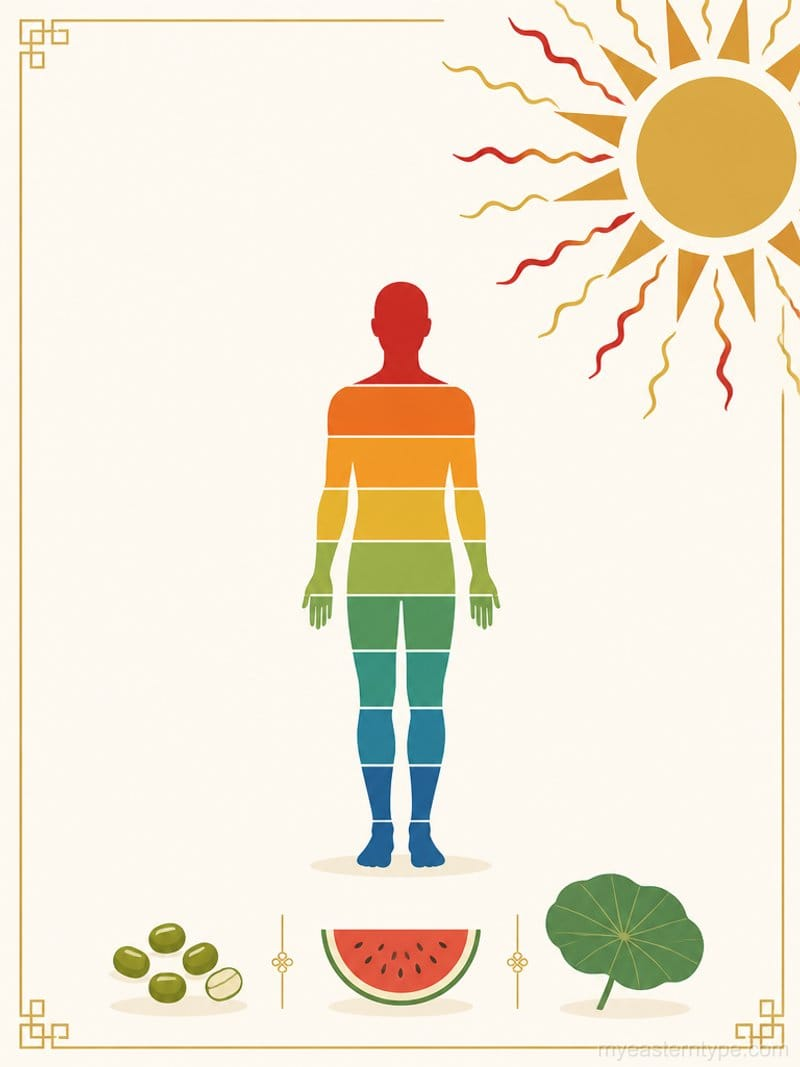
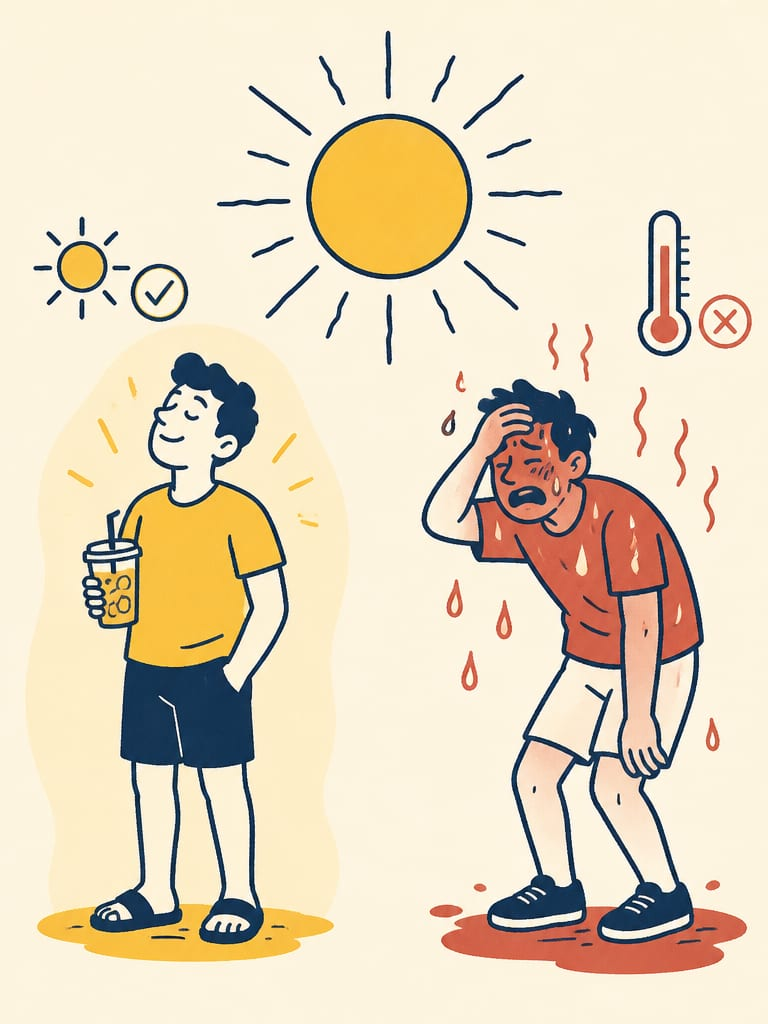
feat: add 2 journal articles (back-to-school + coffee) with 8 new images, replace 4 cover images with flat illustration style (journal 3->5, build 351->353)

diff --git a/src/lib/journal-data.ts b/src/lib/journal-data.ts
@@ -593,5 +593,273 @@ export const JOURNAL_ARTICLES: JournalArticle[] = [
       },
     ],
   },
+  {
+    slug: "back-to-school-by-body-type",
+    title: "Back-to-School by Body Type: Why Some Kids Bounce In While Others Drag",
+    description: "Back to school hits every child differently. A Chinese medicine guide to body type and how children respond to September, with school readiness tips for each constitution.",
+    date: "2026-07-25",
+    category: "event",
+    tags: ["back-to-school", "children", "body-type", "chinese-medicine", "kids"],
+    excerpt: "Some children walk into their classroom on day one like they belong there. Others come home exhausted, teary, or with a stomach ache. Their body type may explain why.",
+    thumbnail: "/images/journal/back-to-school-cover.jpg",
+    sections: [
+      {
+        heading: "Why September Hits Different Kids Differently",
+        body: "In Chinese medicine, a child's reaction to going back to school may be closely tied to their body type, what TCM calls their constitution. Qi Deficient children often come home pale and spent, barely able to hold a conversation about their day. Qi Stagnant children may complain of tummy aches or headaches each school morning, with no clear physical cause. Damp Heat types might break out in rashes or spots during the first stressful week. A child's constitution is not a diagnosis. It is a pattern of strengths and weak points that shapes how their body responds to change, pressure, and new routines. Knowing your child's type may help you prepare for the parts of September that will cost them the most energy.\n\nEvery September, teachers see the same pattern repeat. Some children walk into their new classroom like they belong there, make a friend within the first recess, and come home buzzing with stories. Others drag through the school gate, cling to a parent's hand, and return home withdrawn, tearful, or complaining of a stomach ache that no one can find a reason for. Same school, same teacher, same curriculum. Different bodies.\n\nChinese medicine does not frame this as good behavior versus bad behavior. It frames it as a question of constitution. A child who runs low on Qi will struggle with the sustained output that a full school day demands. A child whose Liver Qi tends to tighten under stress will show it through the gut, not through words. The nine body types each carry their own weak point, and September is exactly the kind of pressure test that exposes it.",
+      },
+      {
+        heading: "The Nine Body Types at School Drop-off",
+        type: "table",
+        table: {
+          headers: ["Body Type", "First Week Vibe", "What Drains Them", "What May Help"],
+          rows: [
+            ["Qi Deficient", "Pale and spent by pickup", "Sustained mental and social output", "Warm cooked breakfast, early bedtime"],
+            ["Qi Stagnant", "Tummy aches and reluctance at the gate", "Emotional pressure and new routines", "Movement before school, time to talk"],
+            ["Damp Heat", "Breakouts and irritability in week one", "Heavy lunches and sticky heat", "Light cooling foods, less sugar"],
+            ["Yin Deficient", "Dry throat, restless sleep, distracted", "Hot classroom and poor hydration", "Hydrating foods, pear and lily bulb"],
+            ["Yang Deficient", "Cold hands, sluggish in the morning", "Early chill and cold drinks", "Warm food, layer up, ginger tea"],
+            ["Phlegm Damp", "Foggy, heavy, hard to focus", "Dairy and sweets after school", "Light meals, movement, less damp food"],
+            ["Blood Stasis", "Clumsy, dark circles, growing pains", "Sitting still for long stretches", "Stretching, movement breaks, warm feet"],
+            ["Sensitive", "Sneezing, itchy skin, reactive", "Dust, chalk, new environment", "Clean uniform, gentle soap, airy room"],
+            ["Balanced", "Settles in within a few days", "Mostly fine, watch sleep debt", "Normal routine, light on screen time"],
+          ],
+        },
+      },
+      {
+        heading: "Nine Body Types at a Glance",
+        type: "image",
+        imageAlt: "Nine body types and their first week of school behavior at a glance",
+        imageDescription: "An infographic grid showing all nine body types as small illustrated icons in a 3x3 layout. Each cell has the body type name, a one-line description of their first week vibe, and a small color-coded dot from red (struggles most) to green (settles easily). Qi Deficient and Qi Stagnant are warm-toned, Balanced and Yang Deficient are cool-toned. Clean, educational style with plenty of white space.",
+        imagePath: "/images/journal/back-to-school-body-type-grid.jpg",
+      },
+      {
+        heading: "",
+        type: "cta",
+        body: "Every child carries a constitution they did not choose. Knowing your child's body type may help you stop reading their September struggles as bad behavior, and start reading them as a pattern you can actually support. Take the free 5-minute quiz to find out which of the nine body types your child leans toward.",
+      },
+      {
+        heading: "The Qi Deficient Child: The One Who Comes Home Exhausted",
+        body: "The Qi Deficient child is the one who walks out of the school gate looking like the day already beat them. Pale, quiet, maybe a little sweaty on the forehead even though it was not hot. You ask how school was, and you get a one-word answer, not because they are being rude but because they genuinely do not have the energy to give you more. By the time they have walked home, dropped their bag, and sat down, they may look ready for bed, and it is only four in the afternoon.\n\nIn Chinese medicine, Qi is the body's daily fuel, the energy that powers talking, thinking, moving, and digesting. A Qi Deficient child starts the day with a smaller tank than their peers. A full school day of paying attention, following rules, navigating friendships, and sitting still drains that tank by mid-afternoon. They are not lazy. They are not faking it. Their constitution simply asks for more recovery time than the school schedule allows.\n\nWhat may help is a warm, cooked breakfast rather than cold cereal or nothing at all. Congee, eggs, or warm oats support the Spleen, the organ Chinese medicine links with turning food into usable energy. An early bedtime, ideally before nine, protects what little Qi they have for the next day. Skip the temptation to fill their afternoons with clubs and lessons. A Qi Deficient child often needs a quiet hour of rest before homework, not another demand on their reserves. If the exhaustion is severe or persistent, a conversation with their pediatrician is worth having, to rule out anything beyond constitution.",
+      },
+      {
+        heading: "The Qi Stagnant Child: The One Who Gets Tummy Aches Before School",
+        body: "The Qi Stagnant child is the one who feels fine all weekend and develops a stomach ache every weekday morning, usually right around the time the school bag gets picked up. The ache is real. It is not invented. It just does not have the kind of cause a scan or a blood test can find, which is exactly why it frustrates parents and worries teachers.\n\nIn Chinese medicine, the Liver is responsible for the smooth flow of Qi throughout the body, and it is the organ most sensitive to emotional pressure, frustration, and change. When a child feels stretched by a new routine, a difficult classmate, or the simple pressure of performing, that flow can tighten and stall. A stalled Liver Qi tends to show up through the gut, because the Spleen and Stomach sit right next door. The result is a child whose worry announces itself as a tummy ache, a headache, or a sudden need to use the bathroom right before leaving the house.\n\nWhat may help is movement before school. A short walk, a few stretches, even dancing to one song can get Qi flowing again and ease the tightness before the day starts. It also helps to leave space in the morning for them to talk if they want to, rather than rushing from bed to car. Pressing a child to explain why their stomach hurts usually makes it worse. Quiet company works better than interrogation. If the pattern continues for more than a few weeks, or if the pain is severe, a pediatrician should be involved to make sure nothing else is going on.",
+      },
+      {
+        heading: "The Damp Heat Child: The One Who Breaks Out in the First Week",
+        body: "The Damp Heat child is the one who walks into the first week of school with clear skin and walks out of it with a rash, a cluster of spots, or an itchy patch that was not there on Monday. The classroom is warm, the playground is sweaty, and lunchbox food is often sweeter and heavier than what they eat at home. For a Damp Heat constitution, that combination can be too much.\n\nIn Chinese medicine, Damp Heat describes a pattern where internal moisture and warmth get stuck together and try to exit through the skin. The first stressful week of school, with its irregular meals, less water, and more heat, is a classic trigger. Your child may also seem more irritable than usual, and their tongue might look more coated than normal.\n\nWhat may help is lighter food through September. Less fried food, less dairy, less sugar, and more cooling options like cucumber, mung bean soup, and pear. Make sure they actually drink water during the school day, not just at home. If a rash looks infected or spreads quickly, have it checked by a pediatrician rather than assuming it is purely constitutional.",
+      },
+      {
+        heading: "The Week Before School: A Simple Timeline",
+        type: "image",
+        imageAlt: "A visual timeline of the week before school starts with preparation tips",
+        imageDescription: "A horizontal timeline infographic showing 5 days before school starts. Each day has a small icon and a short label: Day 5 shift sleep schedule, Day 4 practice the route, Day 3 stock warm breakfast foods, Day 2 talk about the first day, Day 1 keep it quiet. Warm autumn color palette, clean and encouraging style, a small school building icon at the end of the timeline.",
+        imagePath: "/images/journal/back-to-school-prep-week.jpg",
+      },
+      {
+        heading: "5 Things to Do the Week Before School Starts",
+        type: "list",
+        list: [
+          { bold: "Shift the sleep schedule five days early.", text: "A child's internal clock cannot reset in one night. Move bedtime and wake-up time fifteen minutes earlier each day during the last week of August, so the first school morning does not arrive as a shock to their system." },
+          { bold: "Practice the morning route once or twice.", text: "Walk or drive the route to school at the actual time you will need to leave. This lowers anxiety for Qi Stagnant and Sensitive types especially, because the unknown becomes familiar before the pressure is real." },
+          { bold: "Stock the kitchen for warm breakfasts.", text: "Congee, oats, eggs, and warm soups support a child's Qi far better than cold cereal or a skipped meal. Have the ingredients ready before the first morning rush, so a warm breakfast is easy rather than a project." },
+          { bold: "Talk about the day, not the year.", text: "Big talks about the whole school year can overwhelm a child. Talk instead about the first day, the first recess, the first lunch. Small, concrete pictures are easier for a child to carry than abstract expectations." },
+          { bold: "Leave the first week quiet.", text: "Do not book after-school clubs, playdates, or lessons in the first week. Most body types need more recovery time than parents expect. An empty calendar gives their body room to settle into the new rhythm." },
+        ],
+      },
+      {
+        heading: "The First-Day Breakfast That May Help",
+        body: "For a nervous child on the first morning of school, a warm, soft, easy-to-digest breakfast is one of the simplest things you can offer. Congee with jujube dates and Chinese yam is a traditional choice, because both ingredients support the Spleen without burdening it. Here is how to make it the morning before, or the night before and gently reheated.",
+        type: "steps",
+        steps: [
+          { title: "Rinse half a cup of white rice", detail: "Use short-grain white rice for the softest texture. Rinse twice under cold water until the water runs mostly clear. This removes excess starch and stops the congee from turning gluey. Half a cup of dry rice is enough for two child-sized portions." },
+          { title: "Soak the rice for thirty minutes", detail: "Cover the rinsed rice with water and let it sit for half an hour. Soaking softens the grain so it breaks down faster during cooking, which gives congee its signature silky texture. Drain before moving to the next step." },
+          { title: "Add water at a one-to-eight ratio", detail: "For half a cup of rice, use four cups of water. This ratio produces a congee that is soft enough for a child's stomach first thing in the morning, without being too thin. A clay pot or heavy saucepan works best. Avoid iron, which can affect the color." },
+          { title: "Bring to a boil, then simmer for forty minutes", detail: "Bring the pot to a rolling boil on high heat, then reduce to the lowest possible flame. Stir occasionally so the rice does not stick to the bottom. After about forty minutes the grains should have broken down into a soft porridge. A skin forming on top is normal and fine." },
+          { title: "Add jujube dates and Chinese yam", detail: "Pit and slice three to four dried red jujube dates, and add a small handful of peeled, diced Chinese yam, fresh or dried. Both are traditional Spleen-supporting foods in Chinese medicine. Stir them in during the last fifteen minutes of cooking, so they soften but do not fall apart completely." },
+          { title: "Serve warm, not hot", detail: "Ladle into a bowl and let it cool until it is warm but comfortable to eat. This congee is gentle on a child's stomach on a morning when they may be nervous and eating less than usual. A small pinch of salt is fine. Avoid sugar, which can undo the settling effect you are aiming for." },
+        ],
+      },
+      {
+        heading: "A First-Day Breakfast That Settles the Stomach",
+        type: "image",
+        imageAlt: "A bowl of warm jujube and Chinese yam congee on a school morning",
+        imageDescription: "A soft, warm-toned photograph of a ceramic bowl filled with creamy white rice congee, scattered with sliced red jujube dates and pale cubes of Chinese yam. A wooden spoon rests on the side. Morning light falls across a simple wooden table, with a child's school bag visible in the soft-focus background.",
+        imagePath: "/images/journal/back-to-school-breakfast.jpg",
+      },
+    ],
+    relatedLinks: [
+      { title: "Chinese Medicine for Child Sleep", slug: "chinese-medicine-for-child-sleep", type: "wellness" },
+      { title: "Chinese Medicine for Child Anxiety", slug: "chinese-medicine-for-child-anxiety", type: "wellness" },
+      { title: "Chinese Medicine for Child Focus", slug: "chinese-medicine-for-child-focus", type: "wellness" },
+      { title: "Chinese Medicine for Child Low Energy", slug: "chinese-medicine-for-child-low-energy", type: "wellness" },
+      { title: "Chinese Medicine for Child Tantrums", slug: "chinese-medicine-for-child-tantrums", type: "wellness" },
+    ],
+    faqs: [
+      {
+        q: "Which body type struggles most with going back to school?",
+        a: "Qi Deficient children often find the first weeks the hardest, because a full school day drains their limited energy reserves. Qi Stagnant children may struggle in a different way, through stomach aches and reluctance at the gate. A body type quiz may help you see which pattern your child leans toward.",
+      },
+      {
+        q: "My child gets a stomach ache every school morning. Is that real?",
+        a: "In many cases, yes. Chinese medicine links unexplained morning stomach aches to Liver Qi Stagnation, where emotional pressure tightens the flow of energy and shows up through the gut. The pain is genuine even when no physical cause is found. If it persists or is severe, a pediatrician should still check it.",
+      },
+      {
+        q: "Should I change my child's diet before school starts?",
+        a: "Small shifts may help more than big ones. A warm, cooked breakfast supports the Spleen and gives a Qi Deficient child more to run on. Less sugar and fried food may ease a Damp Heat child's skin. Avoid drastic diets right before school, as the change itself adds pressure.",
+      },
+      {
+        q: "What is the best breakfast for the first day of school?",
+        a: "Warm, soft, and easy to digest. Congee with jujube dates and Chinese yam is a traditional choice because it supports the Spleen without burdening it. Eggs, warm oats, or a simple rice porridge also work. Cold cereal on an empty, nervous stomach is best avoided.",
+      },
+      {
+        q: "How long does it take for a child to settle into the school routine?",
+        a: "Most children settle within two to three weeks, but this varies by body type. Balanced and Yang Deficient children often adjust quickly. Qi Deficient and Qi Stagnant children may need a full month, with earlier bedtimes and lighter afternoons, before the new rhythm feels natural to them.",
+      },
+    ],
+  },
+  {
+    slug: "coffee-and-your-body-type",
+    title: "Coffee and Your Body Type: Why It Helps Some and Wrecks Others",
+    description: "Coffee lifts some people and wrecks others. Chinese medicine explains why your body type and caffeine tolerance are linked, and which of the nine constitutions should skip the morning cup.",
+    date: "2026-07-25",
+    category: "event",
+    tags: ["coffee", "caffeine", "body-type", "chinese-medicine", "energy"],
+    excerpt: "Your coworker swears by coffee. You crash after one cup. Chinese medicine explains why the same caffeine hits different body types so differently.",
+    thumbnail: "/images/journal/coffee-cover.jpg",
+    sections: [
+      {
+        heading: "Why Coffee Splits People Into Two Camps",
+        body: "Coffee affects people very differently depending on their body type, and Chinese medicine may explain why. For Yang Deficient constitutions, a small cup of coffee can be associated with a gentle lift in warming energy that feels steadier than it does for others. For Yin Deficient types, the same cup may intensify internal dryness, irritability, and afternoon crashes, because caffeine pulls on a system already running hot and low on cooling reserves. Qi Deficient types often get a short spike followed by deeper fatigue. There is no universally good or bad answer. How coffee interacts with your constitution, your caffeine sensitivity, and your current energy reserves may matter far more than the drink itself.\n\nThe split is not subtle. Walk into any office and you will find two camps. One group drinks espresso at 4 PM and sleeps fine. The other group has half a latte at 9 AM and spends the afternoon with a racing heart, a dry mouth, and a vague sense that something is wrong. Western nutrition frames this as a difference in caffeine metabolism, a story about liver enzymes and genetic variants. Chinese medicine frames it as a difference in constitution, the baseline state of your internal climate. Both are describing the same phenomenon from different angles. The TCM view simply adds a useful next step: if you know your body type, you can predict whether coffee will help or harm you, and you can pick a drink that fits your system instead of fighting it.",
+      },
+      {
+        heading: "The Nine Body Types and Coffee",
+        type: "table",
+        table: {
+          headers: ["Body Type", "Coffee Effect", "Why", "Better Alternative"],
+          rows: [
+            ["Yin Deficient", "Wrecks it", "Adds fire to a system already running hot and dry", "Chrysanthemum or honeysuckle tea"],
+            ["Damp Heat", "Worsens it", "Heat compounds, acne and irritability tend to rise", "Green tea with coix seed"],
+            ["Qi Stagnant", "Mixed bag", "Brief mood lift, then tighter tension returns", "Rose or tangerine peel tea"],
+            ["Phlegm Damp", "Sluggish response", "Caffeine cannot cut through the heavy dampness", "Pu-erh tea, warm ginger water"],
+            ["Blood Stasis", "Mild effect", "Little direct impact, but lost sleep worsens stasis", "Rose tea with jujube dates"],
+            ["Sensitive", "Overstimulates", "Even small amounts cause palpitations and jitters", "Rooibos or barley tea"],
+            ["Qi Deficient", "Rollercoaster", "Short spike followed by a deeper crash", "Ginseng or jujube date tea"],
+            ["Yang Deficient", "May help in small amounts", "Adds gentle warming energy to a cold system", "Ginger or cinnamon tea"],
+            ["Balanced", "Fine in moderation", "A steady system can absorb coffee without much fuss", "Any tea, rotated by season"],
+          ],
+        },
+      },
+      {
+        heading: "Coffee Compatibility Score by Body Type",
+        body: "Across the nine body types, coffee compatibility ranges from a near miss to a comfortable fit. Yin Deficient scores lowest, because caffeine pushes an already hot, dry system further out of balance. Yang Deficient and Balanced score highest, since a small amount of warming stimulation lands well on a cold or steady system. Most types sit in the awkward middle, where coffee works briefly but costs more than it gives.",
+        type: "barchart",
+        barchart: {
+          items: [
+            { label: "Yin Deficient", value: 1, displayValue: "1/10" },
+            { label: "Damp Heat", value: 2, displayValue: "2/10" },
+            { label: "Qi Stagnant", value: 5, displayValue: "5/10" },
+            { label: "Phlegm Damp", value: 4, displayValue: "4/10" },
+            { label: "Blood Stasis", value: 5, displayValue: "5/10" },
+            { label: "Sensitive", value: 2, displayValue: "2/10" },
+            { label: "Qi Deficient", value: 3, displayValue: "3/10" },
+            { label: "Yang Deficient", value: 7, displayValue: "7/10" },
+            { label: "Balanced", value: 8, displayValue: "8/10" },
+          ],
+        },
+      },
+      {
+        heading: "Three Body Types, Three Very Different Reactions",
+        type: "image",
+        imageAlt: "Three body types and their different reactions to coffee explained in an infographic",
+        imageDescription: "A detailed infographic comparing three body types and their coffee reactions side by side. Three columns: Yin Deficient (red zone, coffee adds fire to an already hot dry system, shows a flame icon and dry throat icon, crash at 2pm), Qi Deficient (yellow zone, short spike then deep crash, shows a battery icon draining from 80% to 10%, crash at 11am), Yang Deficient (green zone, gentle warming lift, shows a small flame icon warming a cold system, steady through afternoon). Each column has a timeline bar showing energy levels from 8am to 6pm. Clean PPT slide style with labels, icons, and color-coded zones.",
+        imagePath: "/images/journal/coffee-three-reactions.jpg",
+      },
+      {
+        heading: "",
+        type: "cta",
+        body: "Find out if your body type is coffee-compatible. Take the free 5-minute quiz and learn which of the nine constitutions you fit, so the next cup you reach for actually agrees with your system.",
+      },
+      {
+        heading: "The Yin Deficient Coffee Trap",
+        body: "Of all nine body types, Yin Deficient is the one that should be most cautious around coffee, and yet Yin Deficient people are often the ones reaching for the strongest cup. There is a reason for the mismatch. Yin Deficient types tend to feel a low-grade fatigue that sleep does not fully fix, a tiredness that sits under the surface all day. Coffee seems to switch it off for an hour or two, which feels like relief. The problem is what happens underneath that relief.\n\nIn Chinese medicine, Yin represents the cooling, moistening, resting side of the body's energy. A Yin Deficient person is already running low on that cooling reserve, which is why they tend to run warm, feel dry in the throat and skin, and wake up sweating at night. Coffee is warming, drying, and stimulating. Each cup pushes the system further in the direction it is already leaning too hard. The afternoon crash that follows is not a caffeine wearing off problem. It is the body's cooling reserves being thinner than they were in the morning.\n\nOver time, the pattern may deepen. The dry throat gets drier. The night sweats get more frequent. The irritability sharpens. The fatigue that coffee was supposed to fix starts showing up earlier in the day, which leads to another cup, which leads to another crash. If you suspect you are Yin Deficient, the single most useful change you can make may be to stop reaching for coffee as the answer to your tiredness.",
+      },
+      {
+        heading: "The Qi Deficient Rollercoaster",
+        body: "Qi Deficient types have a different problem with coffee, and it is arguably more confusing because the damage is delayed. A Qi Deficient person runs low on the basic energy that powers digestion, breathing, and sustained effort. They feel tired, yes, but it is a soft, deflated tired, not the wired, restless tired of Yin Deficient. When they drink coffee, something happens that looks like a success. For an hour or maybe two, they feel almost normal. They can focus. They can get through the morning. Then the floor drops out.\n\nThe crash is not just the caffeine wearing off. In TCM terms, coffee borrows energy from tomorrow to spend today. A Qi Deficient system does not have much energy in reserve, so the borrowing is steeper and the repayment is harsher. The afternoon crash hits harder than the morning fatigue ever did, and it tends to come with a foggy head, loose digestion, and a wanting to lie down feeling that no second cup can fix.\n\nWhat makes this a trap is that the morning cup works well enough to feel worth it, and the crash is far enough away that the connection is not obvious. Over weeks and months, the baseline keeps drifting down. The same cup that used to carry you to lunch now barely gets you to 10 AM. The honest answer for Qi Deficient types is that coffee is not giving you energy. It is spending the little you have, and charging interest.",
+      },
+      {
+        heading: "The Yang Deficient Surprise",
+        body: "Here is the twist. Of all nine body types, Yang Deficient is the one that may actually get along with coffee, and that surprises people who assume coffee is universally bad for tired people. Yang Deficient types run cold. Their hands and feet tend to be cool, they prefer warm food and drinks, and they may feel sluggish in a way that warmth and stimulation can genuinely shift.\n\nCoffee is warming and moving in nature, which is exactly what a Yang Deficient system is short of. A small cup in the morning, especially in winter, can offer a gentle lift that does not come with the crash that Qi Deficient types experience, because there is actual warming energy being added rather than borrowed. The key word is small. A Yang Deficient person who drinks three or four cups a day is no longer helping. They are overstimulating a cold system and creating the same exhaustion loop as everyone else. One cup, early, before food, is the pattern that tends to work. Beyond that, warming teas like ginger or cinnamon may do the same job more gently.",
+      },
+      {
+        heading: "5 Morning Drinks That May Support Your Body Type Better Than Coffee",
+        type: "list",
+        list: [
+          { bold: "Chrysanthemum tea", text: "Cooling and gently moistening, this is the classic morning swap for Yin Deficient and Damp Heat types who find coffee too drying and heating." },
+          { bold: "Ginger and jujube date tea", text: "Warming and steadying, a strong option for Qi Deficient and Yang Deficient types who need sustained energy rather than a spike." },
+          { bold: "Rose tea", text: "Gently moving, this may suit Qi Stagnant types whose tiredness is tied up with tension, frustration, and tightness rather than true deficiency." },
+          { bold: "Pu-erh tea", text: "Warm and resolving, a traditional choice for Phlegm Damp types whose heaviness and fog respond better to warmth than to caffeine." },
+          { bold: "Roasted barley tea", text: "Caffeine-free, mild, and easy on the digestion, a safe default for Sensitive types who get palpitations from even small amounts of coffee." },
+        ],
+      },
+      {
+        heading: "5 Coffee Alternatives by Body Type",
+        type: "image",
+        imageAlt: "Five coffee alternative drinks matched to body types in an infographic",
+        imageDescription: "A detailed infographic showing 5 coffee alternative drinks, each matched to specific body types. Five rows, each with a drink icon, drink name, body type tags, and a one-line benefit: 1. Chrysanthemum tea (cooling, for Yin Deficient and Damp Heat, flower icon), 2. Ginger and jujube date tea (warming, for Qi Deficient and Yang Deficient, ginger root icon), 3. Rose tea (moving, for Qi Stagnant, rose icon), 4. Pu-erh tea (resolving, for Phlegm Damp, tea leaf icon), 5. Roasted barley tea (caffeine-free, for Sensitive, barley icon). Color-coded by temperature: blue for cooling, red for warming, green for neutral. Clean PPT slide style with ingredient icons and clear labels.",
+        imagePath: "/images/journal/coffee-alternatives.jpg",
+      },
+      {
+        heading: "How to Transition Off Coffee Without the Crash",
+        body: "Quitting coffee badly is worse than not quitting at all. A cold turkey approach tends to produce a three-day headache, a week of fog, and a relapse that convinces you coffee is essential. The body type aware approach below is slower, gentler, and far more likely to stick.",
+        type: "steps",
+        steps: [
+          { title: "Halve your cup, do not quit cold turkey", detail: "Going from three cups to zero overnight is the fastest way to a three-day headache. Start by cutting each cup in half, or alternating one coffee with one non-caffeinated drink through the morning. The goal is to step down over one to two weeks rather than shock the system." },
+          { title: "Match the swap to your body type", detail: "If you run warm or dry, lean toward chrysanthemum or mint tea. If you run cold or tired, use ginger, jujube date, or cinnamon tea. A swap that fits your constitution will satisfy you in a way that a random herbal tea will not." },
+          { title: "Keep the ritual, change the contents", detail: "Much of what coffee does for you is the ritual, the warm mug, the smell, the ten quiet minutes. Keep all of it. Only the liquid inside changes. This sounds trivial, and it is the step people most often skip." },
+          { title: "Move caffeine earlier in the day", detail: "If you are stepping down rather than quitting, push your last cup earlier by an hour each day until it lands before 11 AM. Caffeine has a long half-life, and afternoon coffee is often what wrecks the sleep that would have fixed the tiredness in the first place." },
+          { title: "Address the tiredness underneath", detail: "Most people drink coffee because they are tired, and most tiredness has a cause that coffee cannot reach. Late nights, skipped breakfast, screen time before bed, and a body type that is out of balance all show up as fatigue. Work on those, and the craving for coffee tends to fade on its own." },
+          { title: "Expect a dip, and ride it out", detail: "Around day three or four, you will feel worse before you feel better. This is normal. It is the system recalibrating to producing its own energy again. Stay with it. By the end of week two, most people report steadier energy through the afternoon than they ever had on coffee." },
+        ],
+      },
+      {
+        heading: "Coffee Compatibility at a Glance",
+        type: "image",
+        imageAlt: "Coffee compatibility chart across nine body types",
+        imageDescription: "A visual chart placing all nine body types on a spectrum from red (coffee wrecks it) to green (coffee may help). Yin Deficient and Damp Heat sit at the red end with a coffee cup crossed out. Yang Deficient and Balanced sit at the green end with a small coffee cup. Each type has a one-line summary of how coffee interacts with its constitution and a suggested morning tea swap.",
+        imagePath: "/images/journal/coffee-body-type-chart.jpg",
+      },
+    ],
+    relatedLinks: [
+      { title: "Kidney Yin Deficiency: The Body Type That Runs Hot", slug: "kidney-yin-deficiency", type: "wellness" },
+      { title: "Spleen Qi Deficiency: Why You Are Always Tired", slug: "spleen-qi-deficiency", type: "wellness" },
+      { title: "Liver Fire: When Stress Turns Into Heat", slug: "liver-fire", type: "wellness" },
+      { title: "Stomach Heat: Why You Are Always Thirsty", slug: "stomach-heat", type: "wellness" },
+      { title: "Chinese Medicine for Fatigue: A Body Type Approach", slug: "chinese-medicine-for-fatigue", type: "wellness" },
+    ],
+    faqs: [
+      {
+        q: "Is coffee bad for everyone in Chinese medicine?",
+        a: "No. Coffee is warming, drying, and stimulating, which means it fits some body types better than others. Yang Deficient and Balanced types often tolerate it well in small amounts. Yin Deficient, Qi Deficient, and Damp Heat types tend to struggle with it. The effect depends less on coffee itself and more on how it matches your constitution.",
+      },
+      {
+        q: "Why does coffee make some people crash and others feel fine?",
+        a: "In TCM terms, the difference is about reserves. A person with ample energy reserves experiences coffee as a small, repayable loan. A person who is already depleted experiences it as a steep borrowing against tomorrow, which shows up as a hard afternoon crash. Caffeine metabolism, sleep quality, and body type all play a role.",
+      },
+      {
+        q: "Which body type should avoid coffee completely?",
+        a: "Yin Deficient types have the weakest case for coffee, because their system already runs hot and dry, and coffee pushes it further in that direction. Damp Heat and Sensitive types also tend to do poorly. If you belong to one of these, even a small cup may cause palpitations, dryness, irritability, or worse sleep, and a warming or cooling tea may serve you better.",
+      },
+      {
+        q: "Can Yang Deficient people drink coffee every day?",
+        a: "A small cup, early in the day, may be fine for a Yang Deficient constitution, especially in cold weather. Daily heavy coffee is a different story. Three or four cups a day overstimulates even a cold, slow system and tends to create the same exhaustion loop it was meant to solve. Moderation is the part that matters.",
+      },
+      {
+        q: "What is the best coffee alternative for tiredness?",
+        a: "It depends on your body type. For Qi Deficient tiredness, ginger and jujube date tea may offer steadier support. For Yin Deficient fatigue, chrysanthemum tea is gentler on a hot, dry system. For Phlegm Damp heaviness, pu-erh tea is the traditional choice. The right swap is the one that matches your constitution, not the one with the most marketing behind it.",
+      },
+    ],
+  },
 
 ]
